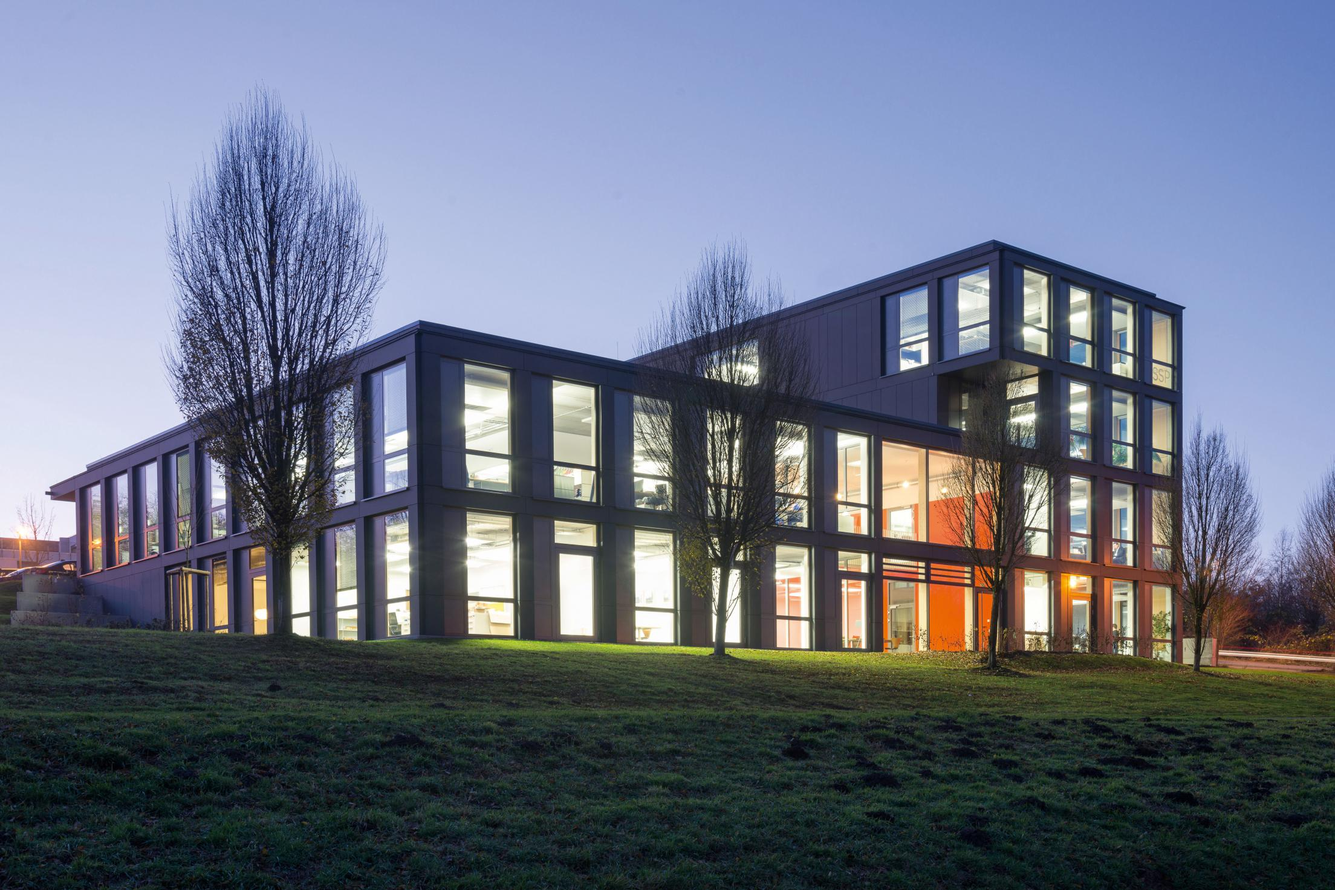
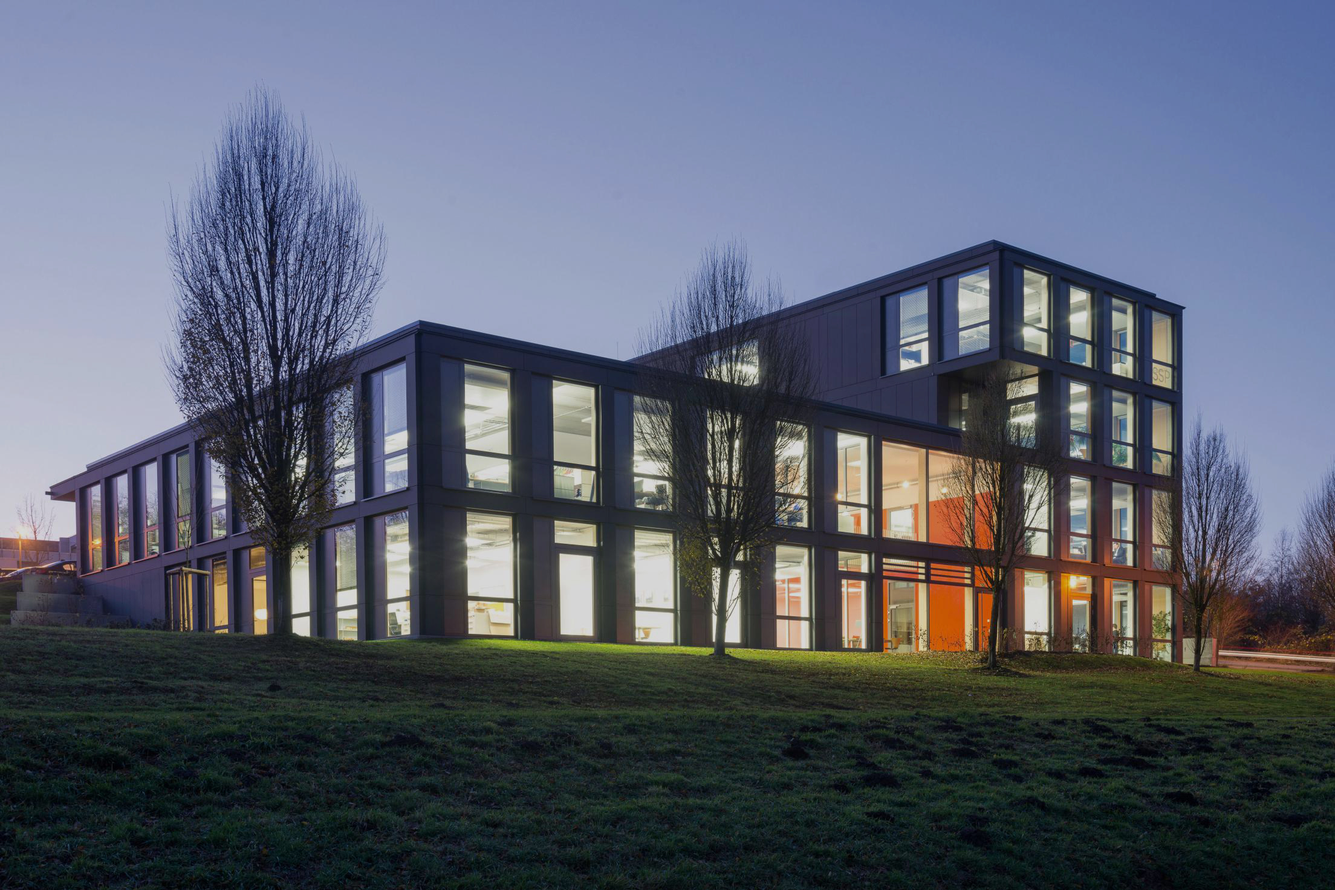
deleted some files

diff --git a/includes/css/styles.css b/includes/css/styles.css
@@ -27,7 +27,7 @@ h1, h2, h3, h4, h5, h6 {
     position: relative;
     min-height: 100vh;
     max-height: auto;
-    background: url('../../img/officebldg1.jpg') no-repeat;
+    background: url('../../img/officebldg.jpg') no-repeat;
     background-size: cover;
     background-position: center center;
     background-attachment: fixed;
